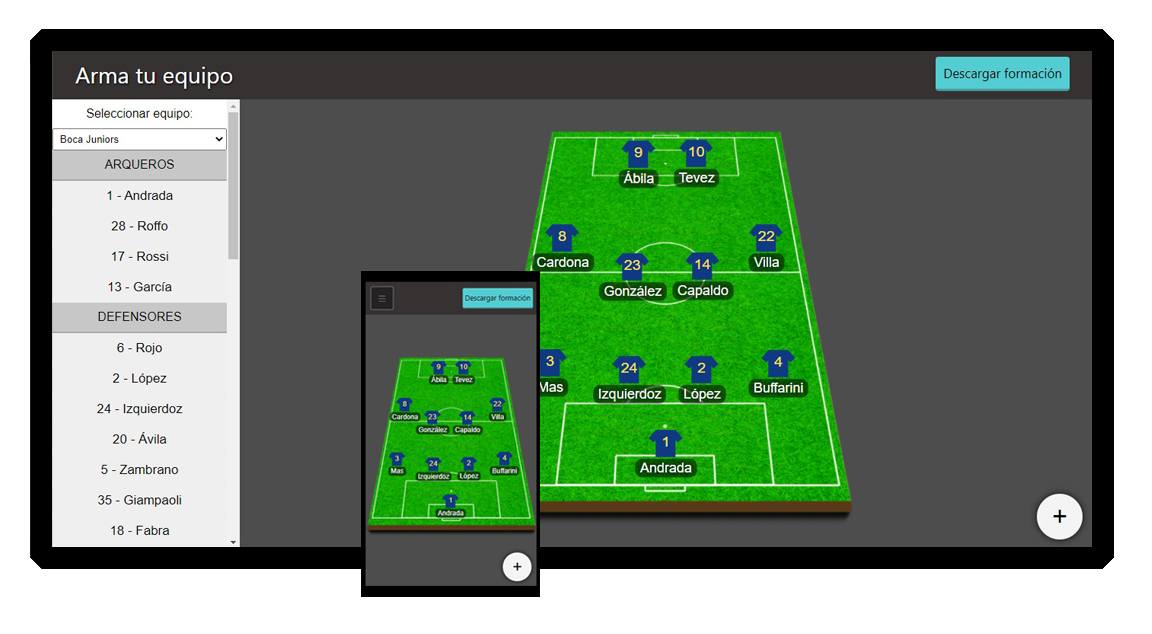
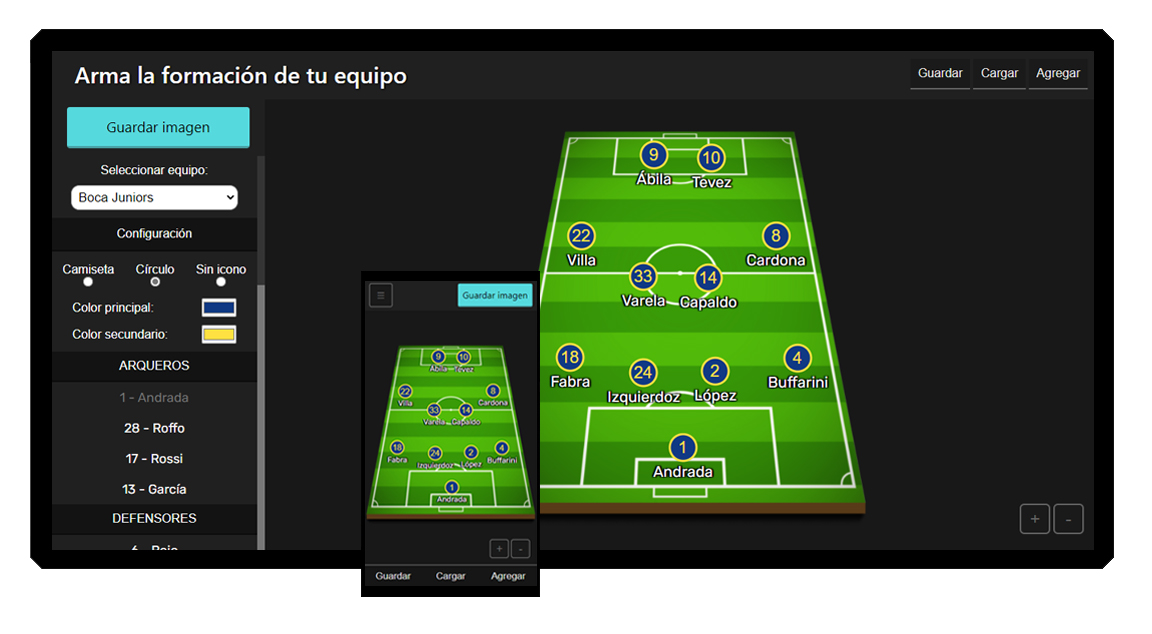
update

diff --git a/src/ui.js b/src/ui.js
@@ -4,6 +4,7 @@ let isVisible = false;
 let flag = true;
 let initialX = null;
 let id = 0;
+let scale = 0;
 const sidebar = document.querySelector('.sidebar');
 const toggleSidebarButton = document.querySelector('.toggle-sidebar-button');
 const downloadButton = document.querySelector('.download-button');
@@ -45,8 +46,8 @@ export function displaySelectedTeam(team) {
 
     });
 
-
 }
+
 export function displayMessage() {
     const message = document.querySelector('.message');
     if (flag) {
@@ -69,10 +70,23 @@ export function displayMessage() {
 if (/Android|webOS|iPhone|iPad|iPod|BlackBerry|IEMobile|Opera Mini/i.test(navigator.userAgent)) {
     const arrow = document.querySelector('.arrow');
     arrow.style.left = "-40px";
-    document.addEventListener('touchstart', () => {
-        arrow.style.left = "-70vh";
-    })
+    document.addEventListener('touchstart', (e) => {
+        if(e.target.className == 'arrow'){
+        setTimeout(() => {
+            arrow.style.left = "60px";
+        }, 0);
+        setTimeout(() => {
+            arrow.style.left = "-50vh";
+        }, 300);
+        setTimeout(() => {
+            arrow.style.display = "none";
+        }, 1000);
+    }
+   
+    });
+    scale = 0.71;
 }
+scale = 0.9
 
 
 function toggleList() {
@@ -98,6 +112,9 @@ function swipeStart(e) {
     if (e.target.className === "field" || e.target.className === "sidebar" || e.target.className === "player" || e.target.className === "arrow" || e.target.className === "position") {
         initialX = e.touches[0].clientX;
         container.addEventListener("touchmove", swipeMenu);
+    }
+    else{
+        container.removeEventListener("touchmove", swipeMenu);
     }
 
 }
@@ -151,17 +168,16 @@ document.querySelectorAll('.zoom-buttons button').forEach((i)=>{i.addEventListen
     players.forEach((player)=>{
         
         if(e.target.textContent === '+'){
-            let scale = player.style.transform;
-            console.log(scale)
-            scale = parseFloat(scale.replace("scale(","").replace(")",""));
-            scale = scale + 0.05
-            player.style.transform = `scale(${scale})`
+            // console.log(scale)
+            // scale = parseFloat(scale.replace("scale(","").replace(")",""));
+            scale = scale + 0.05;
+            player.style.transform = `scale(${scale})`;
         }
         else if(e.target.textContent === '-'){
-            let scale = player.style.transform;
-            scale = parseFloat(scale.replace("scale(","").replace(")",""));
-            scale = scale - 0.05
-            player.style.transform = `scale(${scale})`
+            // let scale = player.style.transform;
+            // scale = parseFloat(scale.replace("scale(","").replace(")",""));
+            scale = scale - 0.05;
+            player.style.transform = `scale(${scale})`;
         }
     })
 }

diff --git a/style.css b/style.css
@@ -154,14 +154,6 @@ body::-webkit-scrollbar {
     overflow: hidden;
     /* border: solid 1px red; */
 }
-
-.field {
-    display: flex;
-    justify-content: center;
-    /* background-color: rgb(77, 77, 77); */
-    background-color: #181818;
-}
-
 .title {
     color: white;
     text-align: center;
@@ -181,9 +173,15 @@ body::-webkit-scrollbar {
 }
 
 .field {
+    display: flex;
+    padding-top:10vh;
+    justify-content: center;
+    align-items:center;
+    flex-direction: column;
+    flex-wrap: wrap;
+    background-color: #181818;
     width: 100%;
     height: 100%;
-    /* border: solid 1px rgb(217, 255, 0); */
     max-width: 95vh;
     max-height: 100%;
     background-image: url("./img/campoD.png");
@@ -257,6 +255,7 @@ body::-webkit-scrollbar {
 .player-icon {
     z-index: 2;
     width: max-content;
+    height: max-content;
     float: left;
     flex-direction: column;
     justify-content: center;
@@ -314,7 +313,8 @@ body::-webkit-scrollbar {
     left:-100vh;
     height:150px;
     width:150px;
-    transition: left 1.3s;
+    transform: scale(0.8);
+    transition: left 1s;
 }
 
 .modal-download{
@@ -550,7 +550,7 @@ body::-webkit-scrollbar {
     flex-direction: row;
     position: absolute;
     right:2vh;
-    bottom:3vh;
+    bottom:2vh;
 }
 .zoom-buttons button{
     margin: 2px;
@@ -687,8 +687,9 @@ body::-webkit-scrollbar {
         width: 100%;
         border:0;
         outline: none;
-        font-size: 20px;
+        font-size: 18px;
     }
+
     .load-formation{
         outline: none;
         
@@ -696,5 +697,7 @@ body::-webkit-scrollbar {
     .color-box2{
         width:70%;
     }
-
+    .zoom-buttons{
+        bottom:8vh;
+    }
 }

diff --git a/src/index.js b/src/index.js
@@ -5,7 +5,6 @@ import { } from './addPlayer.js'
 import { } from './saveTeam.js'
 
 if ("serviceWorker" in navigator) {
-    // register service worker
     navigator.serviceWorker.register("service-worker.js");
 }
 
@@ -57,28 +56,23 @@ function getSelectedPlayerInfo() {
     let name = this.children[1].textContent;
     let jerseyColor =  jerseyTeamColor.value;
     let numberColor =  numberTeamColor.value;
-    let top = 10;
-    let left = 10;
+    let top = null;
+    let left = null;
     let icon = "";
-    let id = this.attributes[0]
+    let id = this.attributes[0];
     
     if(document.querySelector('#jersey').checked){
         icon = "jersey";
     }
     else if(document.querySelector('#circle').checked){
-        icon = "circle"
+        icon = "circle";
     }
     else if(document.querySelector('#no-icon').checked){
         icon = "no-icon";
     }
 
-    createPlayerIcon(number, name, jerseyColor, numberColor, top, left,icon,id );
+    createPlayerIcon(number, name, jerseyColor, numberColor, top, left,icon,id);
 
 }
-
-window.onhashchange = function(e) {
- alert("back")
-}
-
 
 

diff --git a/src/playerIcon.js b/src/playerIcon.js
@@ -7,8 +7,10 @@ import getTeamName from './index.js'
 export function createPlayerIcon(number, name, jerseyColor, numberColor, top, left, icon,id) {
     const field = document.querySelector('.field');
     let playerDiv = getPlayerElement(number, name, jerseyColor, numberColor, icon);
-    playerDiv.style.top = top;
-    playerDiv.style.left = left;
+    if(top != null && left != null){
+        playerDiv.style.top = top;
+        playerDiv.style.left = left;
+    }
     if(id != null){
         playerDiv.setAttribute("data-id",id.value);
     }

diff --git a/src/makeDraggable.js b/src/makeDraggable.js
@@ -1,11 +1,9 @@
 export default function makeDraggable(elmnt) {
     let pos1 = 0, pos2 = 0, pos3 = 0, pos4 = 0;
-
     elmnt.onmousedown = dragDown;
     elmnt.ontouchstart = dragDown;
 
     function dragDown(e) {
-        
         e = e || window.event;
         e.preventDefault();
         if(e.type == 'mousedown'){
